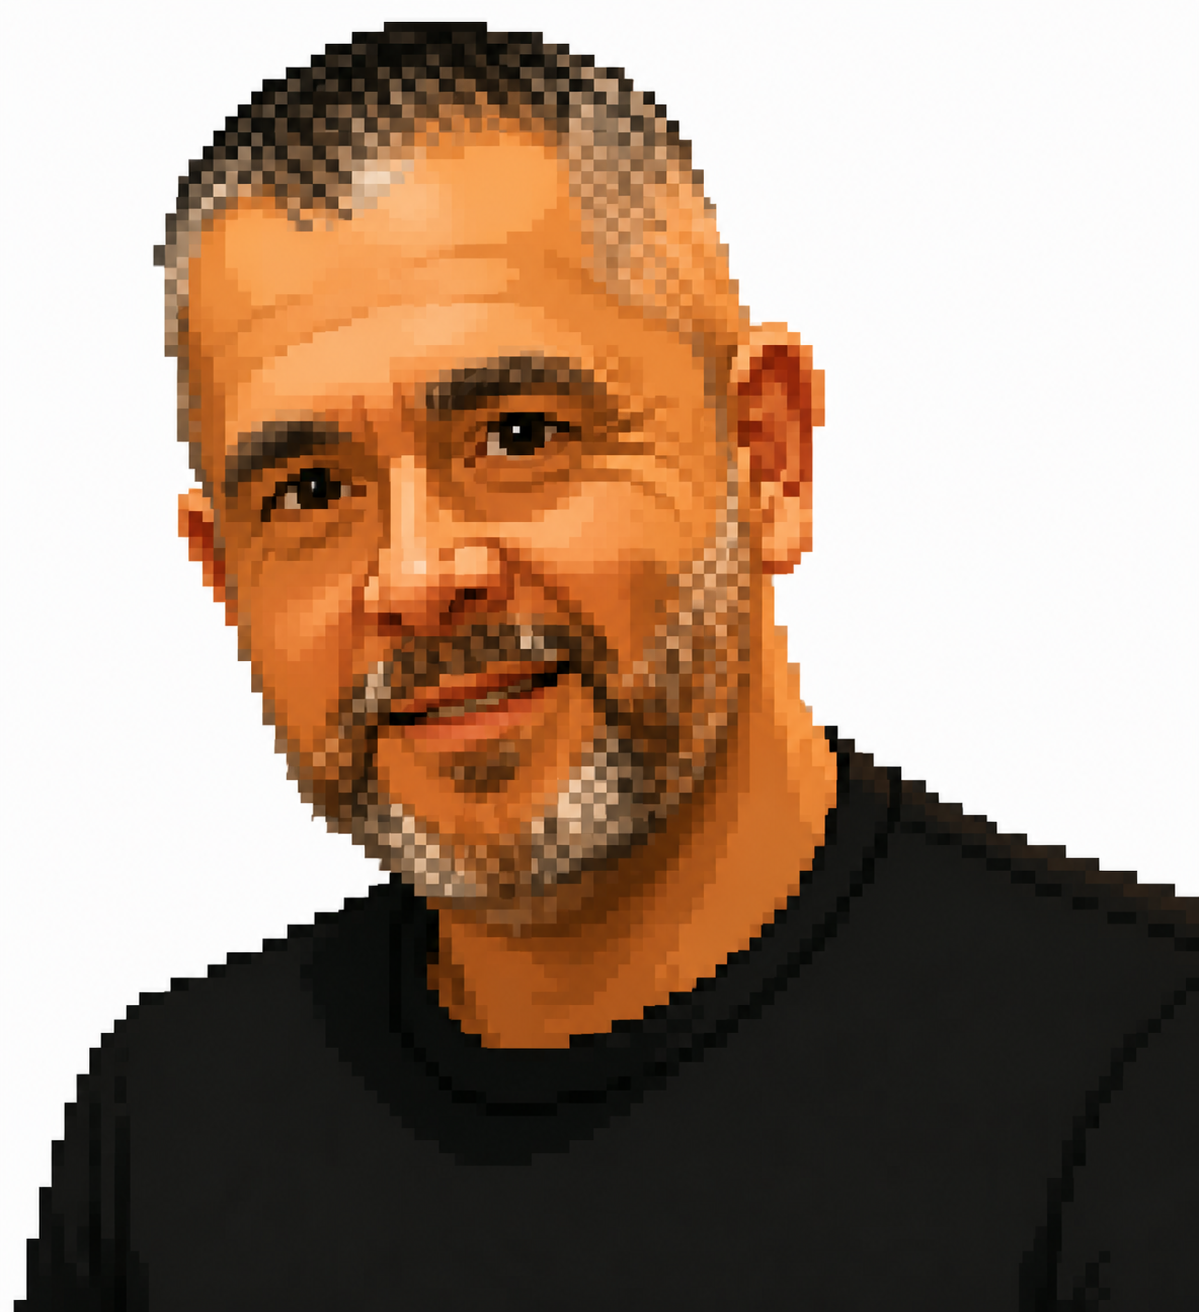
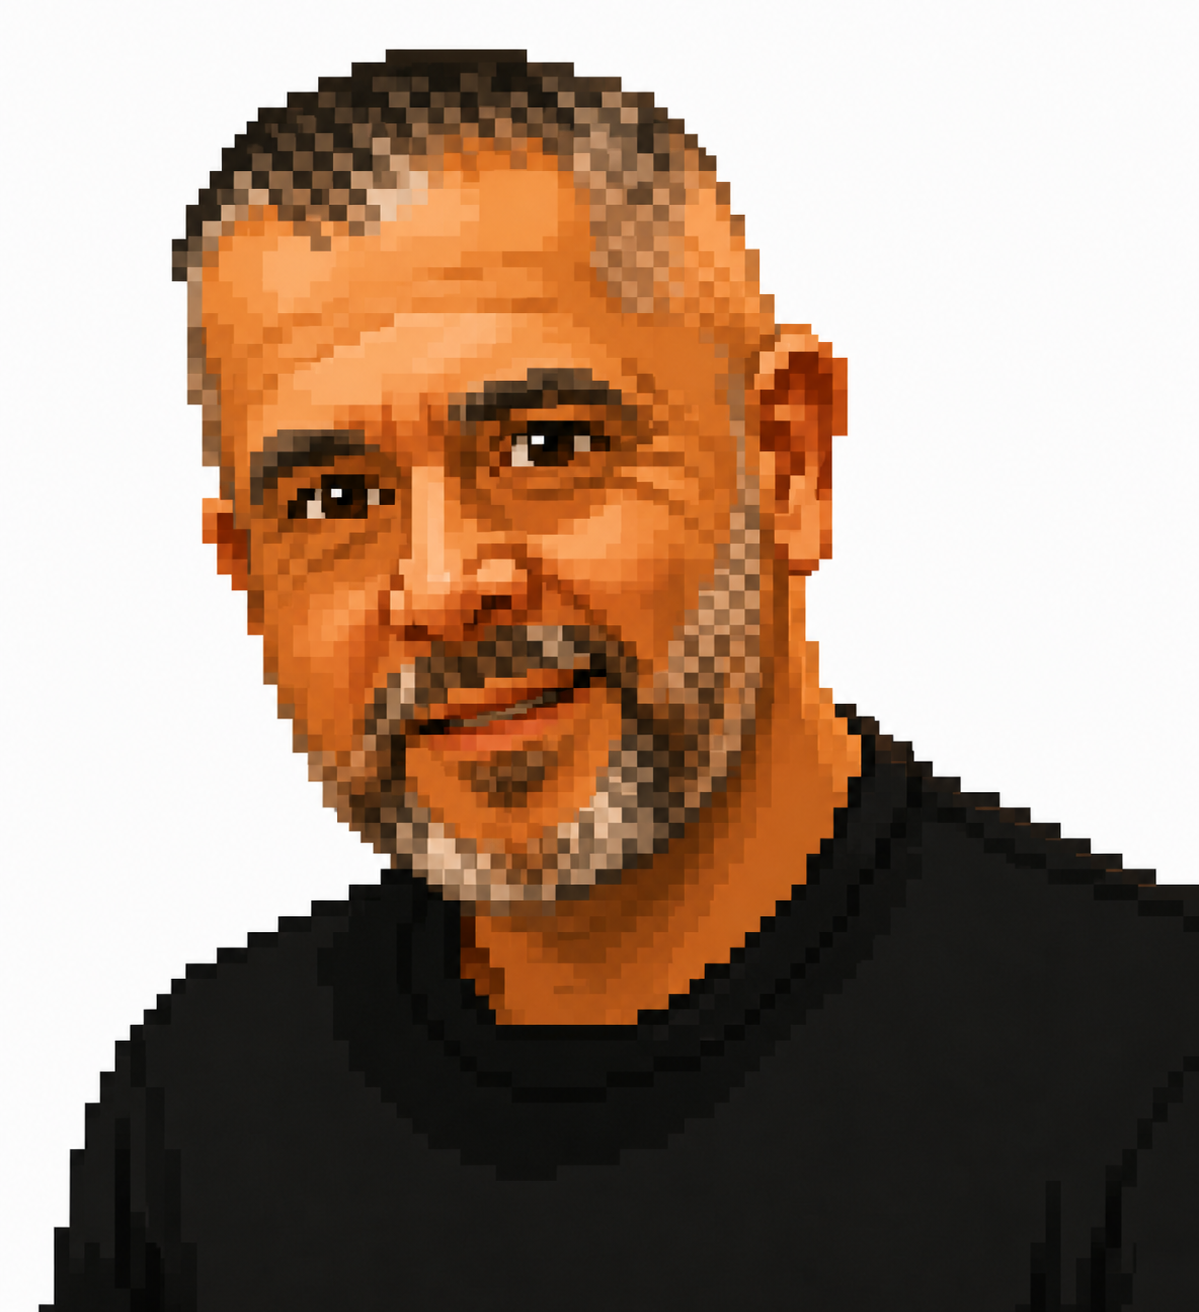
fix: no opacity on disabled button/input, auto-open steal on timer expiry
- AnsweringGuest and StealingGuest: force opacity:1 on both textarea and
  PillButton regardless of disabled state, so the UI stays visually full
  while the player hasn't typed yet or after sending.
- AutoStealOnTimeout: host-side component that sets a setTimeout matching
  timer_ends_at and automatically transitions answering→stealing (with a
  new 60s steal timer) if no answer was received when the countdown hits 0.

diff --git a/src/games/jeopardy/index.tsx b/src/games/jeopardy/index.tsx
@@ -1,7 +1,7 @@
-import { type ReactElement } from 'react'
+import { type ReactElement, useEffect } from 'react'
 import jeopardyData from '../../content/jeopardy.json'
 import type { GameConfig } from '../registry'
-import type { JeopardyTeam } from '../../lib/types'
+import type { JeopardyTeam, GameState } from '../../lib/types'
 import { PillButton } from '../../components/ui/PillButton'
 import { Countdown } from '../../components/ui/Countdown'
 import { GameHeader } from '../../components/ui/GameHeader'
@@ -78,6 +78,26 @@ export function TeamPodium({ teams }: { teams: JeopardyTeam[] }) {
       </div>
     </div>
   )
+}
+
+function AutoStealOnTimeout({ roomId, gs, hasAnswer }: {
+  roomId: string
+  gs: GameState
+  hasAnswer: boolean
+}) {
+  useEffect(() => {
+    if (!gs.timer_ends_at || hasAnswer) return
+    const remaining = new Date(gs.timer_ends_at).getTime() - Date.now()
+    const delay = Math.max(0, remaining)
+    const t = setTimeout(() => {
+      patchGameState(roomId, gs, {
+        phase: 'stealing', steal_open: true,
+        timer_ends_at: new Date(Date.now() + 60_000).toISOString(),
+      })
+    }, delay)
+    return () => clearTimeout(t)
+  }, [gs.timer_ends_at, roomId, hasAnswer])
+  return null
 }
 
 export const jeopardyGame: GameConfig = {
@@ -382,6 +402,7 @@ export const jeopardyGame: GameConfig = {
 
       return (
         <div style={{ padding: 16 }}>
+          <AutoStealOnTimeout roomId={room.id} gs={gs} hasAnswer={roundAnswers.length > 0} />
           <p style={{ color: '#5A2A4A', fontWeight: 800, fontFamily: 'Quicksand, sans-serif', fontSize: 14, marginBottom: 10 }}>{q.q}</p>
 
           {roundAnswers.length === 0 ? (

diff --git a/src/games/jeopardy/question.tsx b/src/games/jeopardy/question.tsx
@@ -86,12 +86,15 @@ export function AnsweringGuest({
           width: '100%', padding: 12, borderRadius: 12,
           border: '2px solid #B86CD9', fontFamily: 'inherit',
           fontSize: 16, resize: 'none', boxSizing: 'border-box', marginTop: 10,
+          opacity: 1,
         }}
       />
       <div style={{ marginTop: 8 }}>
         <PillButton
           disabled={!text.trim() || sent}
-          style={sent ? { background: '#22c55e', borderColor: '#16a34a' } : undefined}
+          style={sent
+            ? { background: '#22c55e', borderColor: '#16a34a', opacity: 1 }
+            : { opacity: 1 }}
           onClick={() => {
             if (!me || sent) return
             submitAnswer(room.id, me.id, 'jeopardy', rk, text.trim())
@@ -142,12 +145,15 @@ export function StealingGuest({
           width: '100%', padding: 12, borderRadius: 12,
           border: '2px solid #FF4FB6', fontFamily: 'inherit',
           fontSize: 16, resize: 'none', boxSizing: 'border-box', marginTop: 10,
+          opacity: 1,
         }}
       />
       <div style={{ marginTop: 8 }}>
         <PillButton
           disabled={!text.trim() || sent}
-          style={sent ? { background: '#22c55e', borderColor: '#16a34a' } : undefined}
+          style={sent
+            ? { background: '#22c55e', borderColor: '#16a34a', opacity: 1 }
+            : { opacity: 1 }}
           onClick={() => {
             if (!me || sent) return
             submitAnswer(room.id, me.id, 'jeopardy', rk, text.trim())